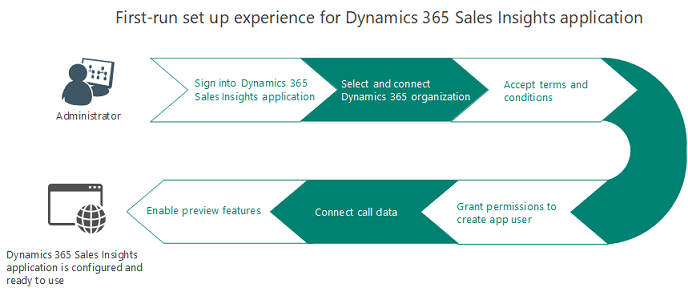
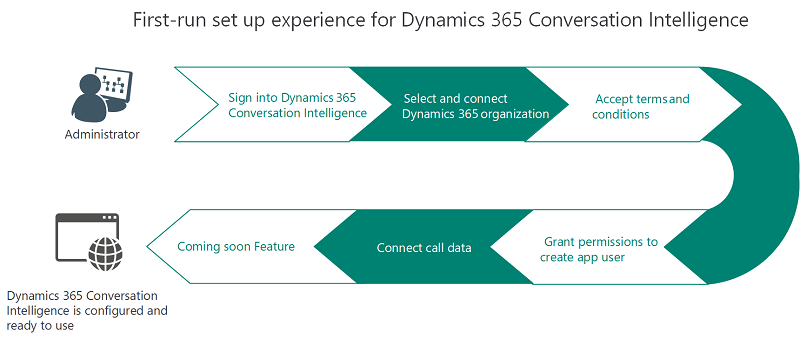
fre update

diff --git a/ai-docs/sales/fre-setup-sales-insight-app.md b/ai-docs/sales/fre-setup-sales-insight-app.md
@@ -1,7 +1,7 @@
 ---
 title: "First-run set up experience for Dynamics 365 Conversation Intelligence | MicrosoftDocs"
 description: "First-run set up experience for Dynamics 365 Conversation Intelligence"
-ms.date: 07/31/2018
+ms.date: 04/09/2020
 ms.service: crm-online
 ms.custom: 
 ms.topic: article
@@ -72,13 +72,13 @@ The following diagram illustrates the process of setting up application as an ad
     > [!div class="mx-imgBorder"]
     > ![Enter values to connect call data](media/si-app-admin-connect-call-data.png "Enter values to connect call data")
  
-8.	If you want to turn the preview feature, on the **Turn on the preview features** dialog box, select the preview feature and then select **Agree and continue**.
+8.	If you want to turn the coming soon feature, on the **Coming soon** dialog box, select the preview feature and then select **Agree and continue**.
 
     > [!div class="mx-imgBorder"]
     > ![Turn on preview feature](media/si-app-admin-enable-preview-feature.png "Turn on preview feature")
  
     > [!NOTE]
-    > If you don’t want to enable the preview feature for your organization, skip this step to proceed. You can always enable the preview features later. To learn more, see [Enable preview features](enable-preview-features-sales-insights-app.md).
+    > If you don’t want to enable the preview feature for your organization, skip this step to proceed. You can always enable the preview features later. To learn more, see [Enable coming soon features](enable-preview-features-sales-insights-app.md).
 
 9.	On the **Keyword and competitor tracking** dialog box, add the keywords and competitors that you want to track on the call. You can update these keywords and trackers later when your organization requires a change. To learn more, see [Configure keywords and competitors in Conversation content](configure-keywords-competitors.md).
 
